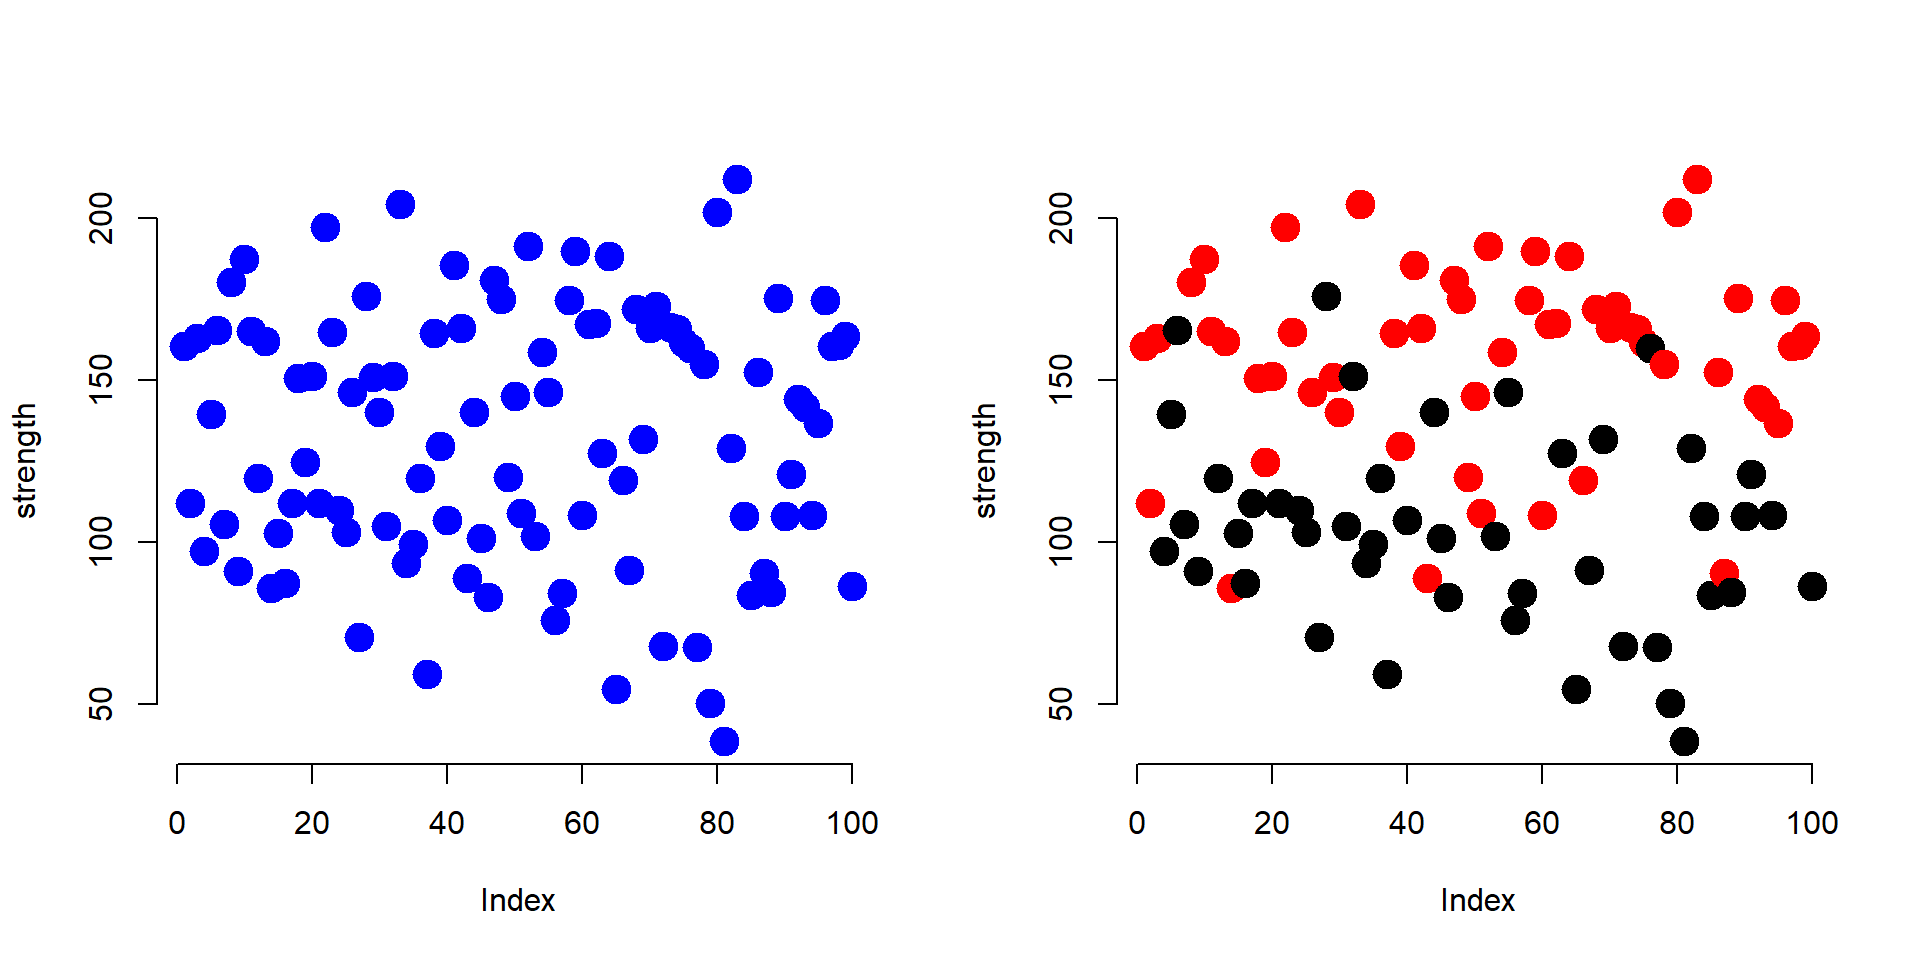
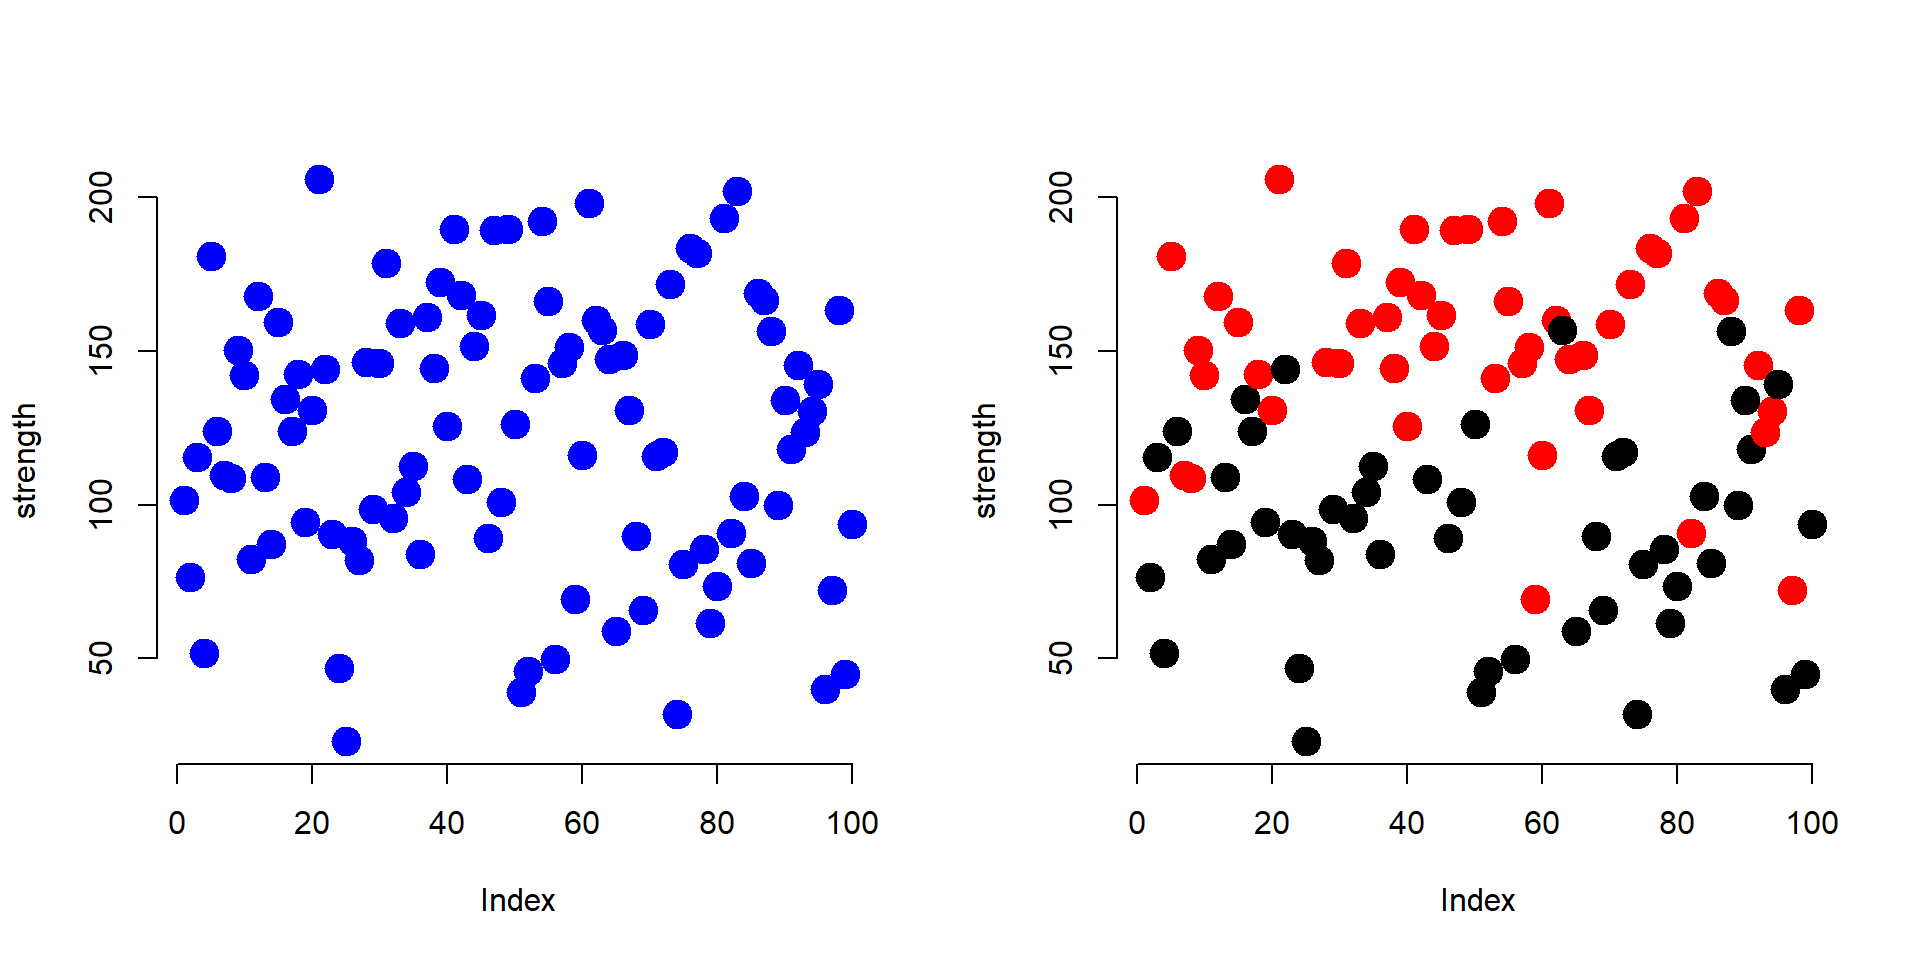
updated vectors

diff --git a/ch-050-vectors.html b/ch-050-vectors.html
@@ -530,9 +530,10 @@ eyJsYW5ndWFnZSI6InIiLCJzYW1wbGUiOiJ4MSA8LSBjKDEsMiwzKSAgICAgICAgICAgICAgICAgICAg
 <a class="sourceLine" id="cb62-8" data-line-number="8"><span class="kw">plot</span>( sex, strength )              <span class="co"># factor + numeric: box and whisker plot       </span></a></code></pre></div>
 <p><img src="ch-050-vectors_files/figure-html/unnamed-chunk-28-1.png" width="768" /></p>
 <div class="tip">
-<p>Note in this example the <strong>plot()</strong> function produced two different types of graphs.</p>
-<p>R uses the object type to determine behavior. This is called object-oriented programming. It makes the process of creating data recipes much faster!</p>
-<p>We will revisit this concept more later.</p>
+<p>Note in this example the same <strong>plot()</strong> function produced two different types of graphs, a scatterplot and a box and whisker plot. How does this work?</p>
+<p>R uses the object type to determine behavior: * If input vectors are both numeric, then produce scatterplot * If input vectors are factor + numeric, then produce a box and whisker.</p>
+<p>This is called object-oriented programming - the functions adapt based upon the type of object they are working with.</p>
+<p>It makes the process of creating data recipes much faster! We will revisit this concept later.</p>
 </div>
 <p><br> <br></p>
 <p>Factors are more memory efficient than character vectors because they store the underlying data as a numeric vector instead of a categorical (text) vector. Each group in the data is assigned a number, and when printing items the program only has to remember which group corresponds to which number:</p>
@@ -544,18 +545,18 @@ eyJsYW5ndWFnZSI6InIiLCJzYW1wbGUiOiJ4MSA8LSBjKDEsMiwzKSAgICAgICAgICAgICAgICAgICAg
 <p>In some instances a categorical variable might be represented by numbers. For example, grades 9-12 for high school kids. These can be tricky to re-cast.</p>
 <div class="sourceCode" id="cb66"><pre class="sourceCode r"><code class="sourceCode r"><a class="sourceLine" id="cb66-1" data-line-number="1">grades &lt;-<span class="st"> </span><span class="kw">sample</span>( <span class="dt">x=</span><span class="dv">9</span><span class="op">:</span><span class="dv">12</span>, <span class="dt">size=</span><span class="dv">10</span>, <span class="dt">replace=</span>T )</a>
 <a class="sourceLine" id="cb66-2" data-line-number="2">grades</a></code></pre></div>
-<pre><code>##  [1] 10 11  9 12 10 10 10 10  9 11</code></pre>
+<pre><code>##  [1] 10 12 10  9 12 10  9 12 10  9</code></pre>
 <div class="sourceCode" id="cb68"><pre class="sourceCode r"><code class="sourceCode r"><a class="sourceLine" id="cb68-1" data-line-number="1">grades &lt;-<span class="st"> </span><span class="kw">as.factor</span>( grades )</a>
 <a class="sourceLine" id="cb68-2" data-line-number="2">grades</a></code></pre></div>
-<pre><code>##  [1] 10 11 9  12 10 10 10 10 9  11
-## Levels: 9 10 11 12</code></pre>
+<pre><code>##  [1] 10 12 10 9  12 10 9  12 10 9 
+## Levels: 9 10 12</code></pre>
 <div class="sourceCode" id="cb70"><pre class="sourceCode r"><code class="sourceCode r"><a class="sourceLine" id="cb70-1" data-line-number="1"><span class="kw">as.numeric</span>( grades )</a></code></pre></div>
-<pre><code>##  [1] 2 3 1 4 2 2 2 2 1 3</code></pre>
+<pre><code>##  [1] 2 3 2 1 3 2 1 3 2 1</code></pre>
 <div class="sourceCode" id="cb72"><pre class="sourceCode r"><code class="sourceCode r"><a class="sourceLine" id="cb72-1" data-line-number="1"><span class="kw">as.character</span>( grades )</a></code></pre></div>
-<pre><code>##  [1] &quot;10&quot; &quot;11&quot; &quot;9&quot;  &quot;12&quot; &quot;10&quot; &quot;10&quot; &quot;10&quot; &quot;10&quot; &quot;9&quot;  &quot;11&quot;</code></pre>
+<pre><code>##  [1] &quot;10&quot; &quot;12&quot; &quot;10&quot; &quot;9&quot;  &quot;12&quot; &quot;10&quot; &quot;9&quot;  &quot;12&quot; &quot;10&quot; &quot;9&quot;</code></pre>
 <div class="sourceCode" id="cb74"><pre class="sourceCode r"><code class="sourceCode r"><a class="sourceLine" id="cb74-1" data-line-number="1"><span class="co"># proper way to get back to the original numeric vector</span></a>
 <a class="sourceLine" id="cb74-2" data-line-number="2"><span class="kw">as.numeric</span>( <span class="kw">as.character</span>( grades ))</a></code></pre></div>
-<pre><code>##  [1] 10 11  9 12 10 10 10 10  9 11</code></pre>
+<pre><code>##  [1] 10 12 10  9 12 10  9 12 10  9</code></pre>
 <p><br></p>
 <div class="tip">
 <p>The <strong>very important</strong> rule to remember with factors is you can’t move directly from the factor to numeric using the <strong>as.numeric()</strong> casting function. This will give you the underlying data structure, but will not give you the category names. To get these, you need the <strong>as.character</strong> casting function.</p>
@@ -635,13 +636,13 @@ eyJsYW5ndWFnZSI6InIiLCJzYW1wbGUiOiJ4MSA8LSBjKDEsMiwzKSAgICAgICAgICAgICAgICAgICAg
 <div id="repeated-values" class="section level3">
 <h3><span class="header-section-number">3.8.1</span> Repeated Values</h3>
 <div data-datacamp-exercise="" data-height="300" data-encoded="true">
[2 lines of base64/hex data omitted]
 </div>
 </div>
 <div id="sequence-of-values" class="section level3">
 <h3><span class="header-section-number">3.8.2</span> Sequence of Values</h3>
 <div data-datacamp-exercise="" data-height="300" data-encoded="true">
[2 lines of base64/hex data omitted]
 </div>
 </div>
 <div id="random-sample" class="section level3">
@@ -653,7 +654,7 @@ eyJsYW5ndWFnZSI6InIiLCJzYW1wbGUiOiIjIGNyZWF0ZSBhIHJhbmRvbSBzYW1wbGVcbmJhZy5vZi5s
 <div id="draw-from-a-normal-distribution" class="section level3">
 <h3><span class="header-section-number">3.8.4</span> Draw From a Normal Distribution</h3>
 <div data-datacamp-exercise="" data-height="300" data-encoded="true">
[2 lines of base64/hex data omitted]
 </div>
 </div>
 </div>
